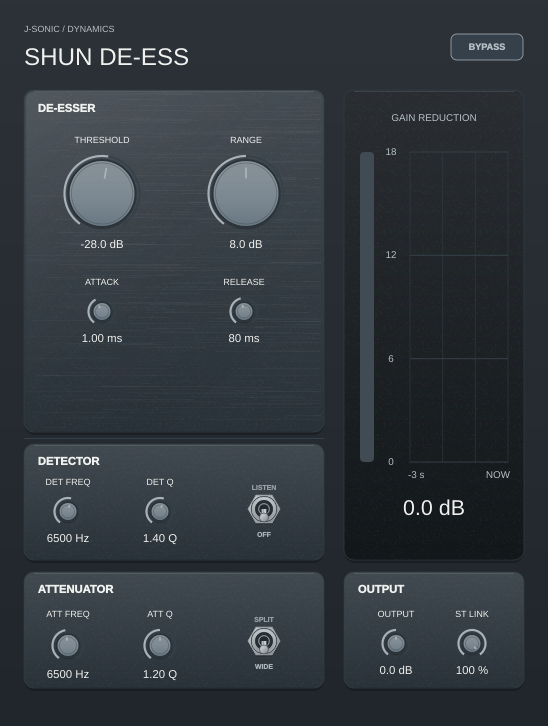
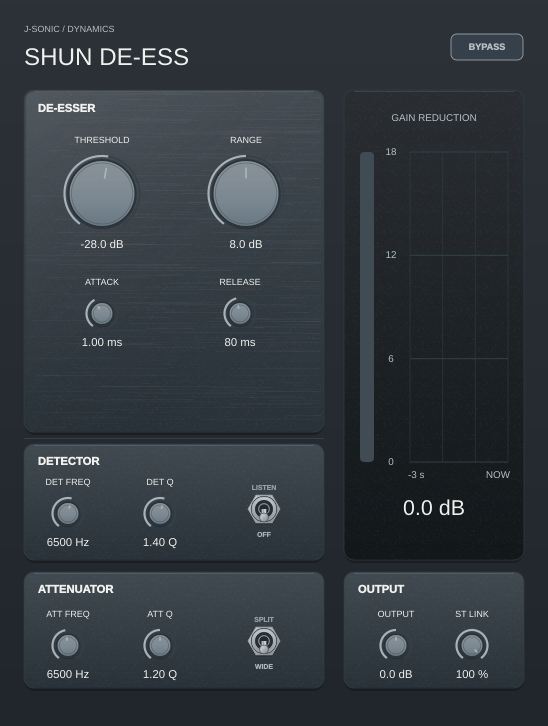
Standardize SHUN secondary knob sizes

diff --git a/projects/ShunDeEss/Source/PluginEditor.cpp b/projects/ShunDeEss/Source/PluginEditor.cpp
@@ -538,14 +538,14 @@ void ShunDeEssEditor::resized()
     };
     place (4, 38, 208, 128, 108);
     place (5, 168, 208, 156, 108);
-    place (6, 62, 350, 80, 60);
-    place (7, 204, 350, 80, 60);
-    place (0, 30, 550, 76, 60);
-    place (1, 122, 550, 76, 60);
+    place (6, 64, 350, 76, 64);
+    place (7, 202, 350, 76, 64);
+    place (0, 30, 550, 76, 64);
+    place (1, 122, 550, 76, 64);
     place (2, 30, 682, 76, 64);
     place (3, 122, 682, 76, 64);
-    place (8, 358, 682, 76, 60);
-    place (9, 434, 682, 76, 60);
+    place (8, 358, 682, 76, 64);
+    place (9, 434, 682, 76, 64);
     listen.setBounds (230, up (550) + 11, 68, 76);
     modeSwitch.setBounds (230, up (682) + 11, 68, 76);
 }

diff --git a/projects/ShunDeEss/DEVELOPMENT_LOG.md b/projects/ShunDeEss/DEVELOPMENT_LOG.md
@@ -46,3 +46,6 @@
 
 ### 2026-10-20 — output control sizing
 - Increased the Output and Stereo Link knobs to match the Detector knob bounds.
+
+### 2026-10-20 — secondary knob sizing
+- Standardized all secondary knobs to the Attenuator controls' 76 × 64 bounds.
